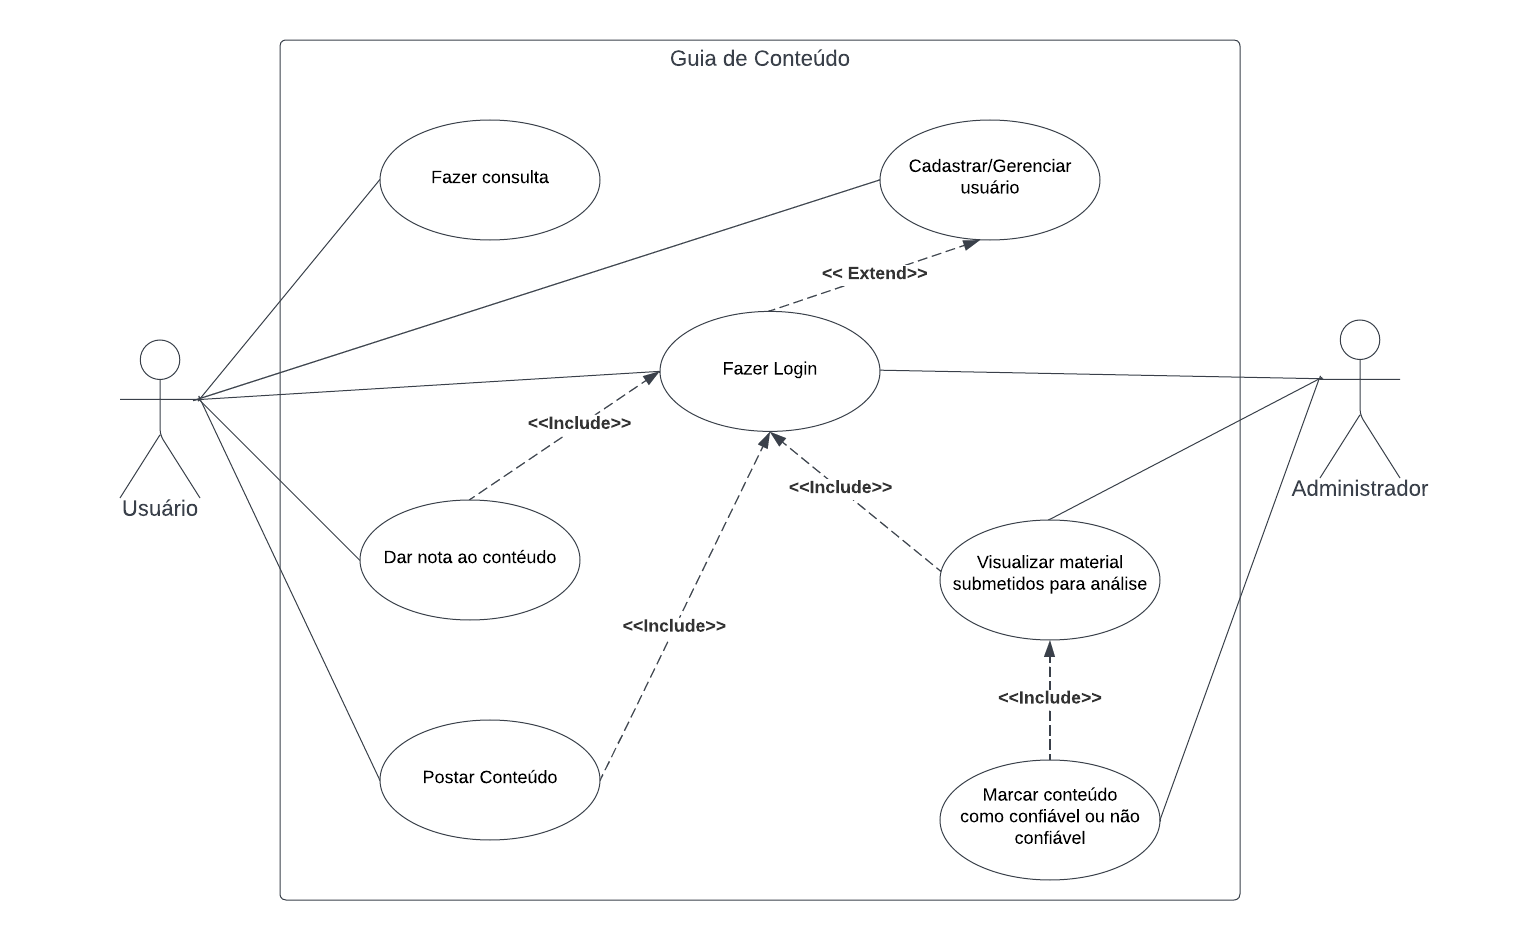
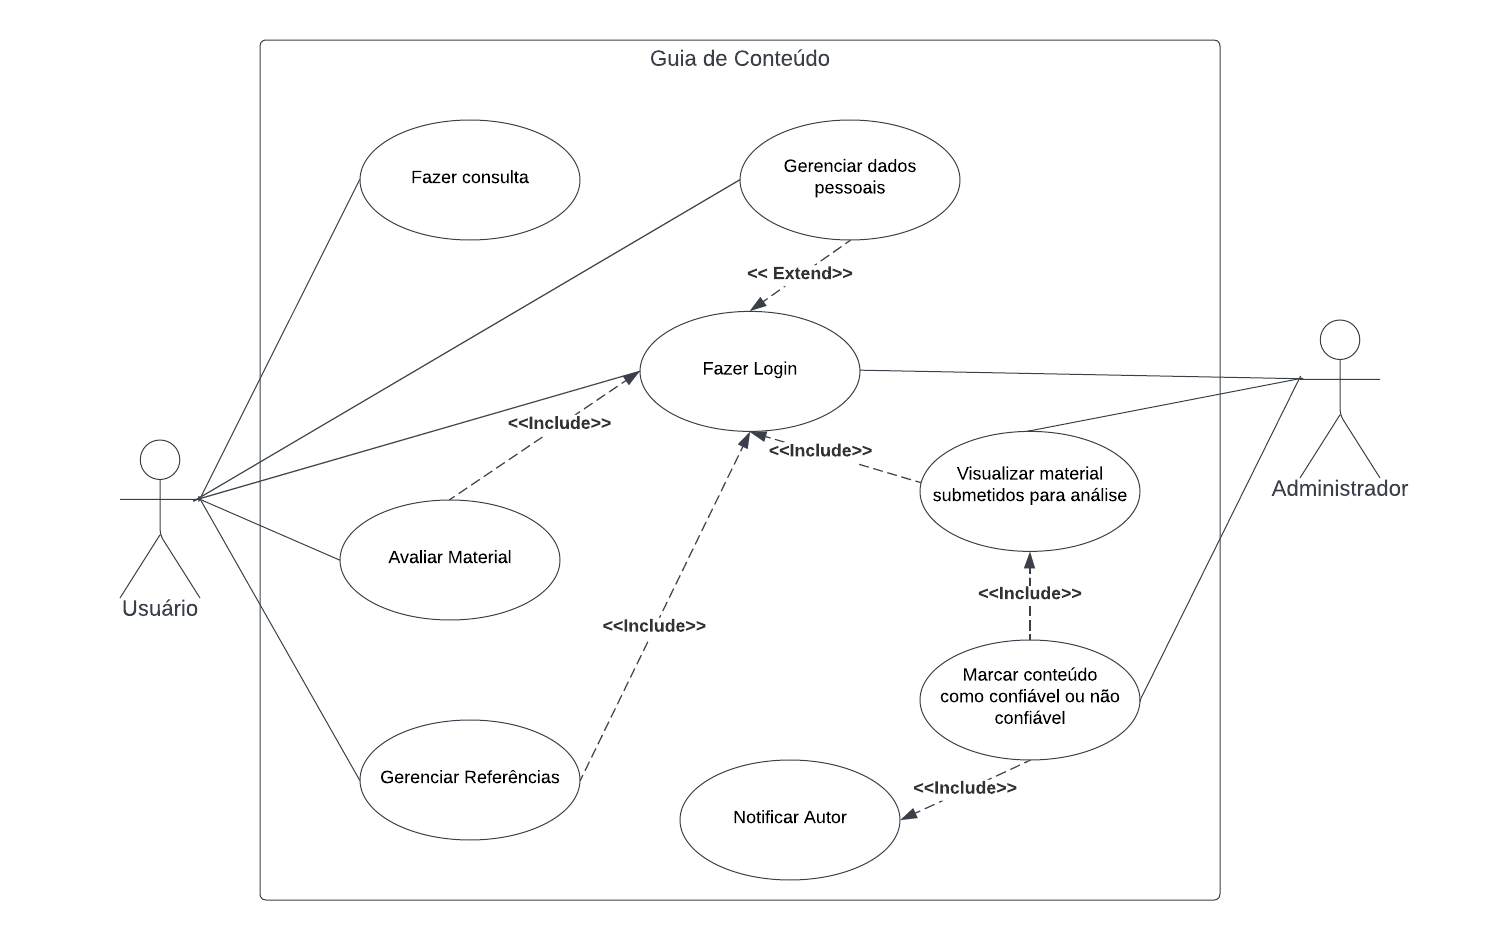
Issues 17, 18, 19 e 21

diff --git a/docs/01-Documentação de Contexto.md b/docs/01-Documentação de Contexto.md
@@ -20,9 +20,9 @@ O presente trabalho objetiva a elaboração de uma solução que facilite o enco
 
 Como objetivos específicos, podemos ressaltar:
 
-Permitir a inserção de biografia de determinado assunto.
-
-Fornecer mecanismo de busca por assunto para facilitar a navegação.
+- Permitir a inserção de biografia de determinado assunto.
+- Realizar curadoria de material. Disponibilizando para consulta apenas materiais confiáveis. 
+- Permitir que os estudantes possam avaliar o material e assim, a comunidade também poderá sinalizar quais são os materiais mais pertinentes.
  
 ## Justificativa
 
